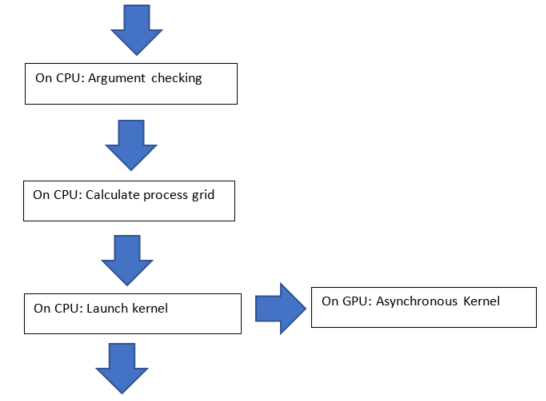
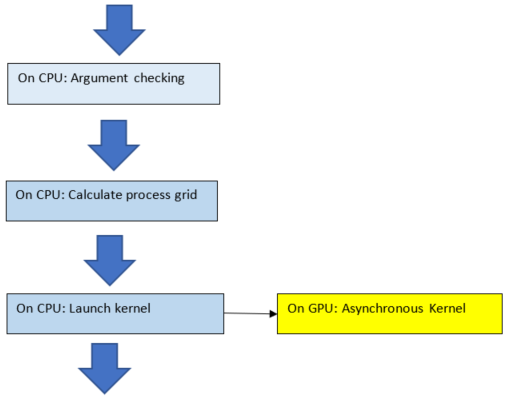
improve asynch_function.PNG
[ROCm/rocblas commit: b4c15ccd796ee3356f198b173a0ee9553220a757]

Changed region(s): [[0.0, 0.0, 1.0, 0.9975]]

diff --git a/projects/rocblas/docs/source/api.rst b/projects/rocblas/docs/source/api.rst
@@ -96,8 +96,6 @@ Asynchronous API
 
 rocBLAS functions will be asynchronous unless:
 
-* the user requests logging
-
 * the function needs to allocate device memory
 
 * the function returns a scalar result from GPU to CPU
@@ -113,11 +111,13 @@ the next instructions.
    :alt: code blocks in asynch function call
    :align: center
 
-   Code blocks in asynch function call
+   Order of operations in asynchronous functions
 
 
-Logging results in system calls, and the program will need to wait for them to 
-complete before executing the next instruction. See the Logging section for more information.
+The above order of operations will change if there is logging, or if the
+function is synchronous. Logging requires system calls, and the program 
+will need to wait for them to complete before executing the next instruction.
+See the Logging section for more information.
 
 .. note:: The default is no logging.
 
@@ -126,14 +126,13 @@ executing the next instruction. See the Device Memory Allocation section for mor
 
 .. note:: Memory can be pre-allocated. This will make the function asynchronous as it removes the need for the function to allocate memory.
 
-The following functions calculate a scalar result: max, min, dot, nrm2. If 
-rocblas_pointer_mode == rocblas_pointer_mode_host the result will need to be 
-copied from device to host, and the program will need to wait for the copy 
-before executing the next instruction. If rocblas_pointer_mode = rocblas_pointer_mode_device
-there is no need fot the copy, and the function will be asynchronous. See the section
-on Pointer Mode for more information
+The following functions copy a scalar result from GPU to CPU if
+rocblas_pointer_mode == rocblas_pointer_mode_host: max, min, dot, nrm2.
+This makes the function synchronous, as the program will need to wait 
+for the copy before executing the next instruction. See the section on 
+Pointer Mode for more information
 
-.. note:: Set rocblas_pointer_mode to rocblas_pointer_mode_device to make functions that return a scalar result asynchronous.
+.. note:: Set rocblas_pointer_mode to rocblas_pointer_mode_device make the function asynchronous by keeping the result on the GPU.
 
 The order of operations with logging, device memory allocation and return of a scalar
 result is as in the figure below: